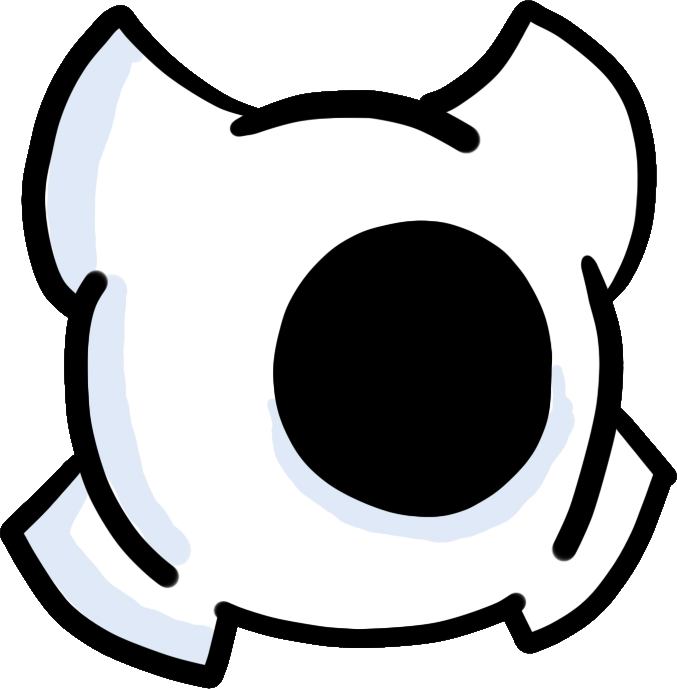
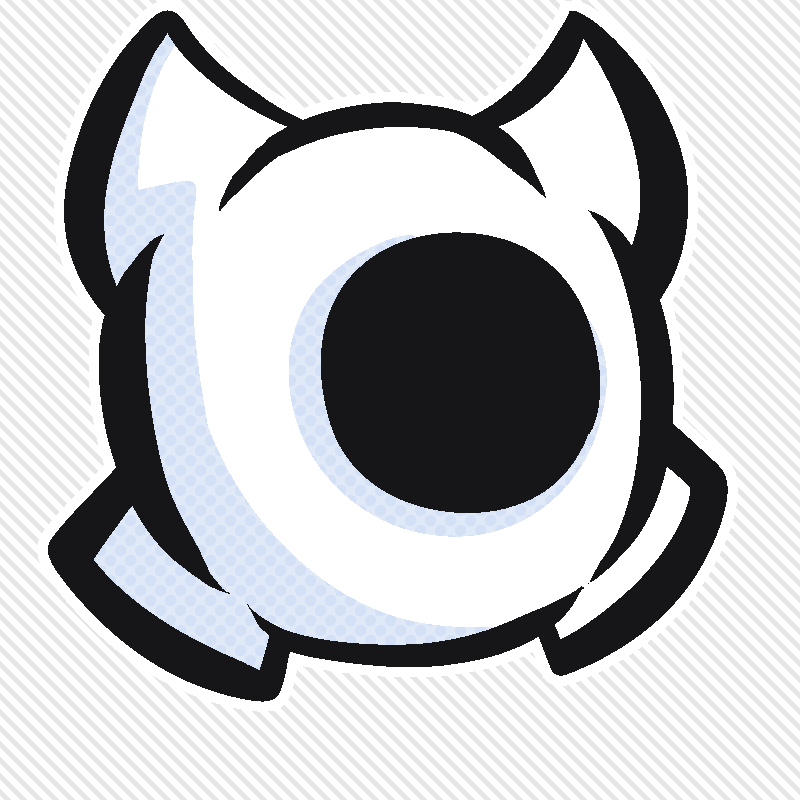
Added the ability to upload an attachment as a tag, updated branding

diff --git a/commands/tags.js b/commands/tags.js
@@ -17,6 +17,9 @@ exports.run = async (client, message, args) => { // eslint-disable-line no-unuse
           if (tagContent.length !== 0 && tagContent !== undefined) {
             client.tags.set(message.guild.id, { content: tagContent, author: message.author.id }, args[1]);
             message.reply(`the tag \`${args[1]}\` has been added!`);
+          } else if (message.attachments.array().length !== 0) {
+            client.tags.set(message.guild.id, { content: message.attachments.array()[0].url, author: message.author.id }, args[1]);
+            message.reply(`the tag \`${args[1]}\` has been added!`);
           } else {
             message.reply("you need to specify the content of the tag!");
           }
@@ -50,6 +53,9 @@ exports.run = async (client, message, args) => { // eslint-disable-line no-unuse
             if (tagContent.length !== 0 && tagContent !== undefined) {
               client.tags.set(message.guild.id, tagContent, `${args[1]}.content`);
               message.reply(`the tag \`${args[1]}\` has been edited!`);
+            } else if (message.attachments.array().length !== 0) {
+              client.tags.set(message.guild.id, { content: message.attachments.array()[0].url, author: message.author.id }, args[1]);
+              message.reply(`the tag \`${args[1]}\` has been added!`);
             } else {
               message.reply("you need to specify the content of the tag!");
             }

diff --git a/commands/info.js b/commands/info.js
@@ -4,7 +4,7 @@ exports.run = async (client, message, args) => { // eslint-disable-line no-unuse
   const dev = client.users.resolve(client.config.botOwner).tag;
   const artist = client.users.resolve("401980971517214723").tag;
   const infoEmbed = new MessageEmbed()
-    .setAuthor("esmBot Info/Credits", "https://cdn.discordapp.com/avatars/429305856241172480/49717613bd5c8302e59f615f5ef70fe5.png")
+    .setAuthor("esmBot Info/Credits", client.user.avatarURL())
     .setColor(0xFF0000)
     .addField("📝 Credits:", `Bot by **${dev}**\n` +
       `Icon by **${artist}**`)
